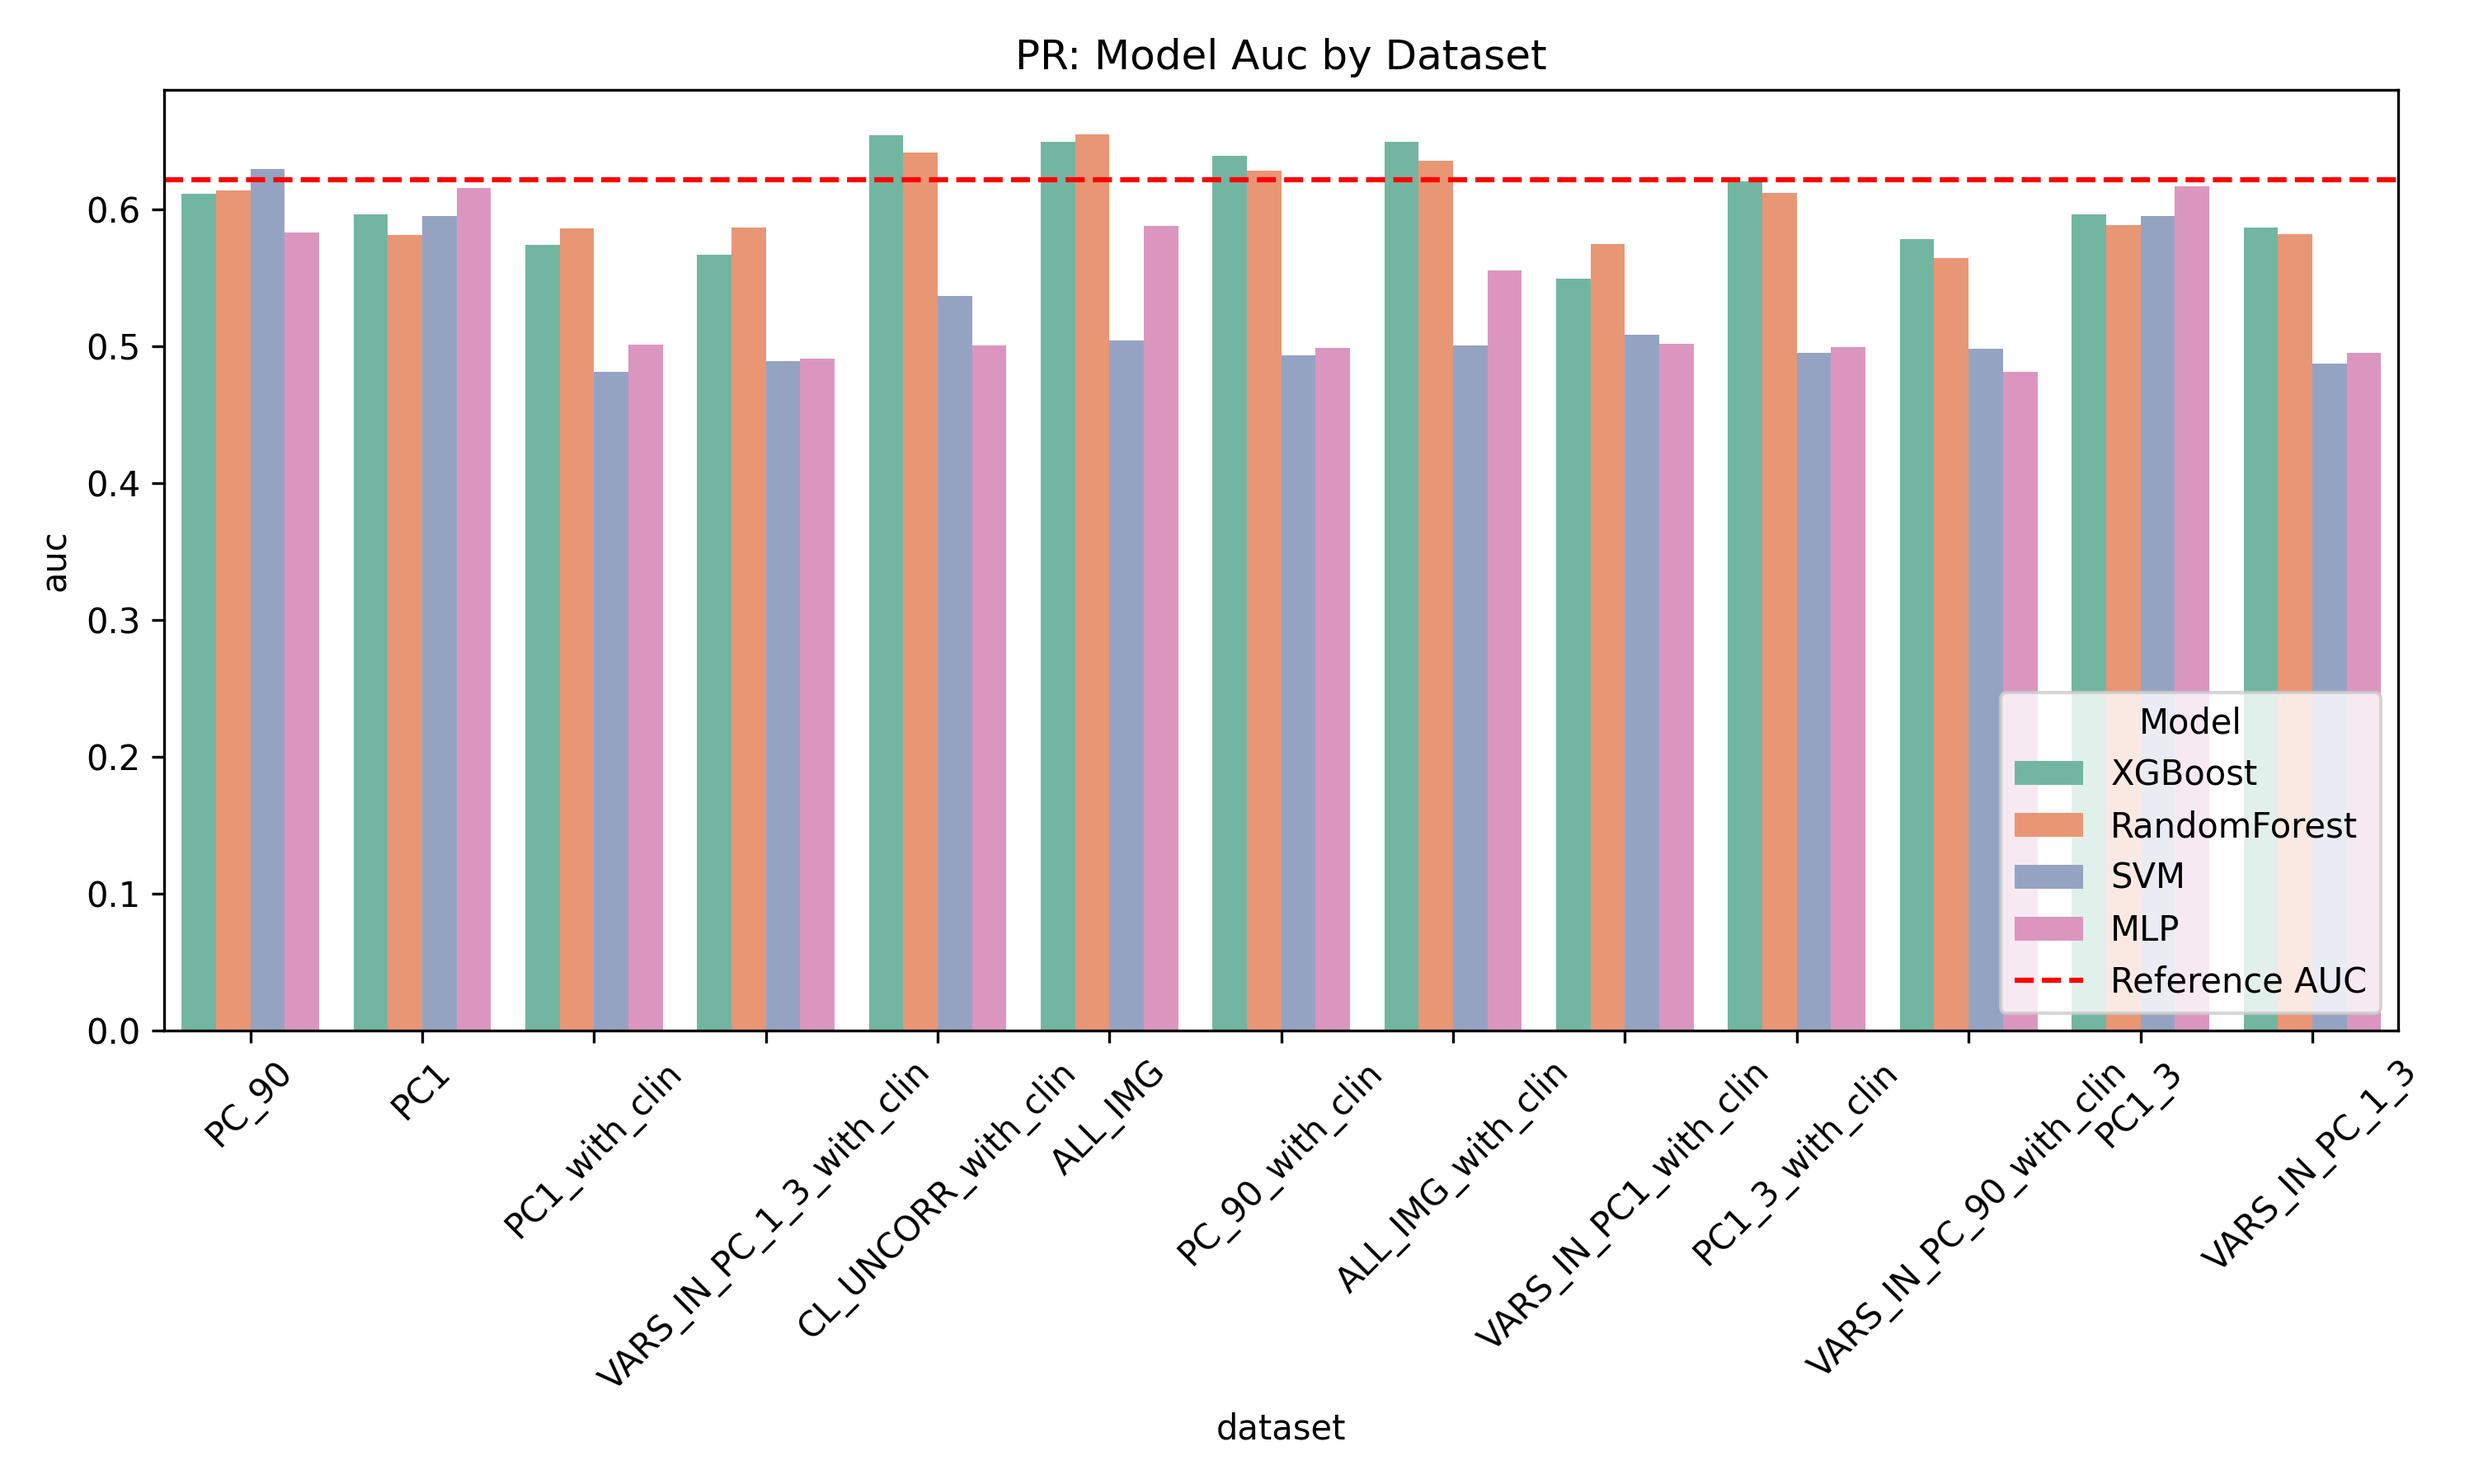
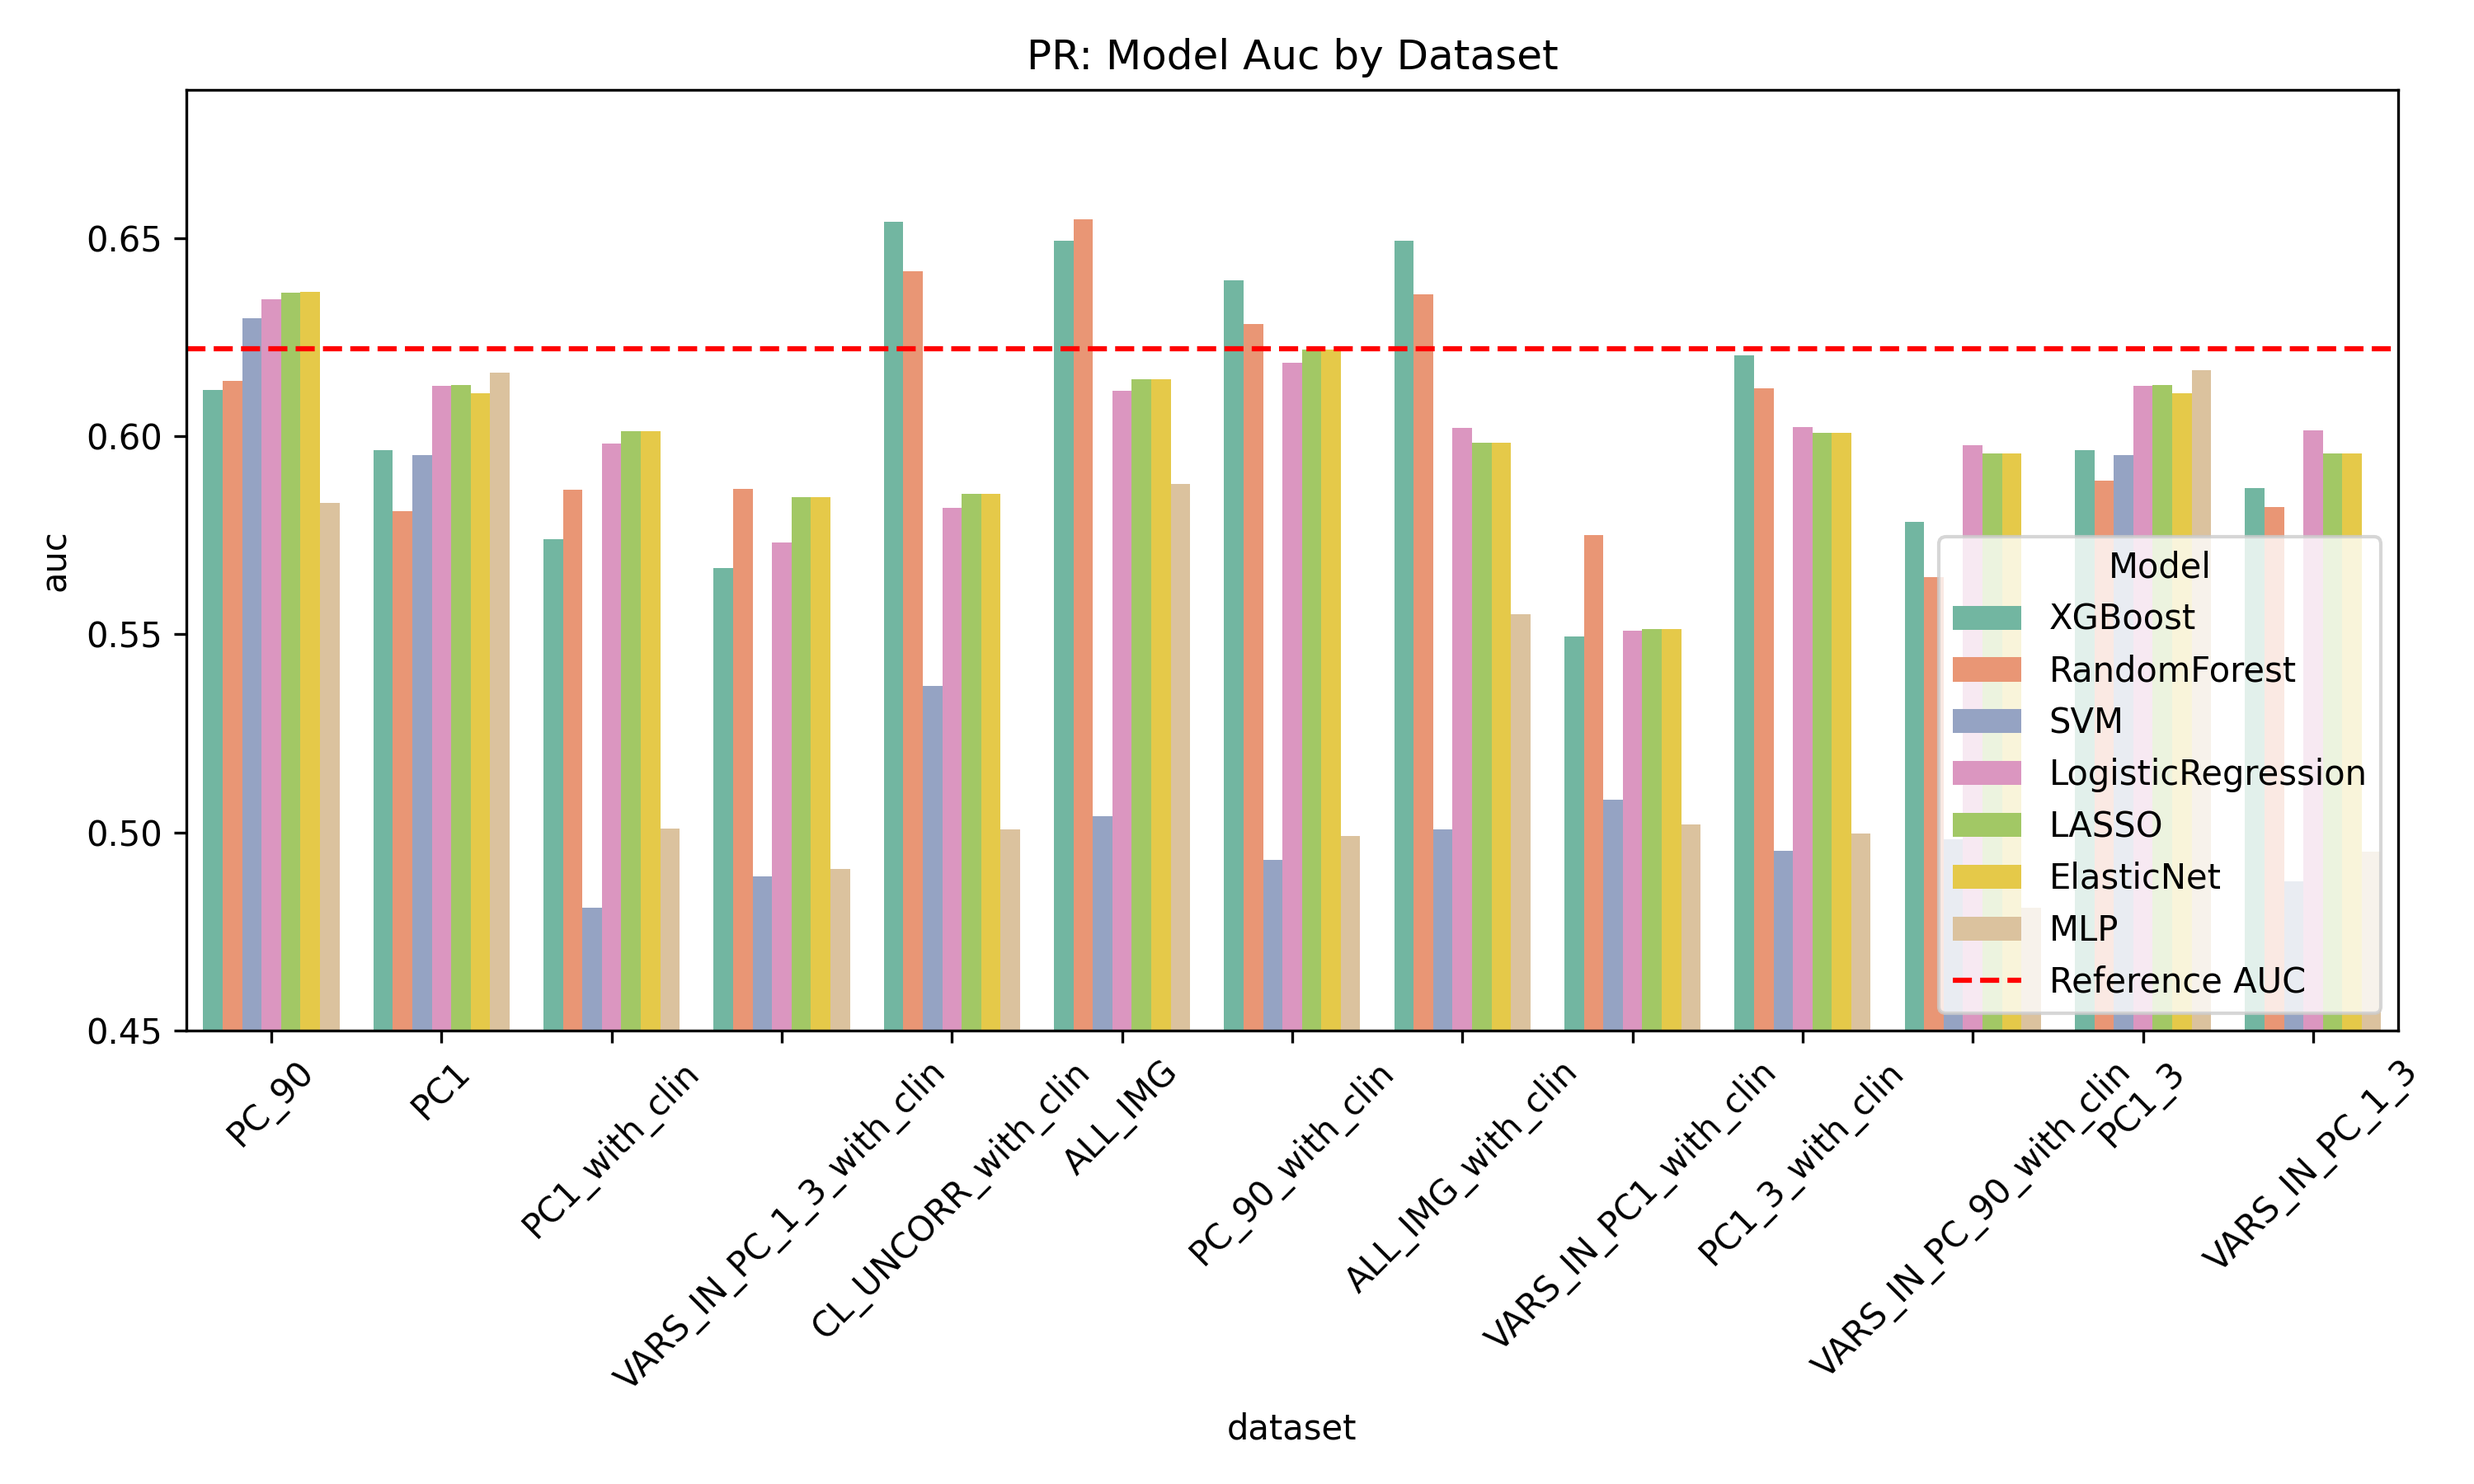
updated the PCA graphs to be in correct order, generalized input to take from .csv for summary statistics

diff --git a/data/final/lucy/final_produce_custom_figures.py b/data/final/lucy/final_produce_custom_figures.py
@@ -1,0 +1,117 @@
+"""
+final_produce_custom_figures.py
+
+This script reads in a CSV file (formatted like summary_auc.csv) containing model
+statistics, reshapes it so that each model is in its own row, and produces figures
+based on user-selected datasets, models, and predictors. It also writes out a filtered
+CSV for reference.
+
+User-adjustable lists:
+    SELECTED_DATASETS: List of datasets to include.
+    SELECTED_MODELS: List of models to include.
+    SELECTED_PREDICTORS: List of predictors (outcomes) to include.
+"""
+
+import os
+import pandas as pd
+import matplotlib.pyplot as plt
+import seaborn as sns
+from pathlib import Path
+
+# ------------------------------------------
+# User adjustable parameters - modify these as needed
+SELECTED_DATASETS = ["ALL_IMG", "ALL_IMG_with_clin", "PC1"]  # Modify as needed.
+SELECTED_MODELS = ["XGBoost", "RandomForest", "MLP", "SVM", "LogisticRegression", "LASSO", "ElasticNet"]
+SELECTED_PREDICTORS = ["ER", "PR", "HER2"]  # Modify as needed.
+# ------------------------------------------
+
+# Reference AUC values (update as needed)
+REF_AUC = {
+    "ER": 0.65,
+    "PR": 0.60,
+    "HER2": 0.55
+}
+
+# File paths
+BASE_DIR = Path.cwd() / "data" / "final" / "lucy"
+CSV_INPUT = BASE_DIR / "summary_auc.csv"         # Input CSV file path (same format as summary_auc.csv)
+FIGURES_DIR = BASE_DIR / "figures" / "custom"      # Folder for custom figures
+CSV_OUT = BASE_DIR / "summary_filtered.csv"        # Output filtered CSV
+
+# Ensure output directories exist
+os.makedirs(FIGURES_DIR, exist_ok=True)
+
+# Read the CSV file
+df = pd.read_csv(CSV_INPUT)
+
+# Reshape DataFrame: convert wide format (one column per model) to long format
+models = ["ElasticNet", "LASSO", "LogisticRegression", "MLP", "RandomForest", "SVM", "XGBoost"]
+df_melt = pd.melt(df, id_vars=["predictor", "dataset"], value_vars=models,
+                  var_name="model", value_name="auc")
+
+# Filter the DataFrame based on user-selected datasets, models, and predictors
+df_filtered = df_melt[
+    df_melt["dataset"].isin(SELECTED_DATASETS) &
+    df_melt["model"].isin(SELECTED_MODELS) &
+    df_melt["predictor"].isin(SELECTED_PREDICTORS)
+].copy()
+
+# Write the filtered CSV summary
+df_filtered.to_csv(CSV_OUT, index=False)
+print(f"Saved filtered summary CSV: {CSV_OUT}")
+
+# Create a combined column for model and predictor (e.g. "XGBoost ER")
+df_filtered['model_predictor'] = df_filtered['model'] + " " + df_filtered['predictor']
+
+# --------------------
+# Plot 1: Boxplot for each model-predictor combination
+plt.figure(figsize=(12, 6))
+sns.boxplot(data=df_filtered, x="model_predictor", y="auc", palette="Set3")
+sns.swarmplot(data=df_filtered, x="model_predictor", y="auc", color=".25", alpha=0.7)
+plt.title("AUC Distribution by Model and Predictor")
+plt.ylabel("AUC")
+plt.xlabel("Model and Predictor")
+plt.xticks(rotation=45, ha="right")
+plt.tight_layout()
+boxplot_path = FIGURES_DIR / "auc_boxplot_by_model_predictor.png"
+plt.savefig(boxplot_path, dpi=300)
+plt.close()
+print(f"Saved figure: {boxplot_path}")
+
+# --------------------
+# Plot 2: Grouped bar chart for AUC by dataset (for each predictor)
+for predictor in df_filtered["predictor"].unique():
+    sub_df = df_filtered[df_filtered["predictor"] == predictor]
+    plt.figure(figsize=(10, 6))
+    ax = sns.barplot(data=sub_df, x="dataset", y="auc", hue="model", palette="Set2")
+    # Set the y-axis lower bound to 0.45
+    plt.ylim(0.45, ax.get_ylim()[1])
+    plt.title(f"{predictor}: AUC by Dataset and Model")
+    plt.ylabel("AUC")
+    plt.xlabel("Dataset")
+    plt.xticks(rotation=45)
+    # Add reference line if available
+    if predictor in REF_AUC:
+        plt.axhline(REF_AUC[predictor], color='red', linestyle='--', label='Reference AUC')
+        plt.legend(title="Model", loc="lower right")
+    plt.tight_layout()
+    barplot_path = FIGURES_DIR / f"{predictor}_auc_barplot.png"
+    plt.savefig(barplot_path, dpi=300)
+    plt.close()
+    print(f"Saved figure: {barplot_path}")
+
+# --------------------
+# Plot 3: Overall predictor boxplot showing AUC distribution by predictor
+plt.figure(figsize=(8, 6))
+sns.boxplot(data=df_filtered, x="predictor", y="auc", palette="Set3")
+sns.swarmplot(data=df_filtered, x="predictor", y="auc", color=".25", alpha=0.7)
+plt.title("Overall AUC Distribution by Predictor")
+plt.ylabel("AUC")
+plt.xlabel("Predictor")
+plt.tight_layout()
+overall_boxplot_path = FIGURES_DIR / "overall_auc_by_predictor.png"
+plt.savefig(overall_boxplot_path, dpi=300)
+plt.close()
+print(f"Saved figure: {overall_boxplot_path}")
+
+print("All figures generated successfully.")

diff --git a/data/final/lucy/create_final_csv.py b/data/final/lucy/create_final_csv.py
@@ -21,8 +21,58 @@ CSV_OUT = path / "data" / "final" / "lucy" / "summary_auc.csv"
 # Expected targets (predictors)
 PREDICTORS = ["ER", "PR", "HER2"]
 # List of datasets you want to include
-DATASETS = ["ALL_IMG", "CL_UNCORR", "PC1", "PC1_3", "PC_90", "VARS_IN_PC1", "VARS_IN_PC_1_3", "VARS_IN_PC_90"]
+DATASETS = ["ALL_IMG",
+            "CL_UNCORR",
+            "PC1",
+            "PC1_3",
+            "PC_90",
+            "VARS_IN_PC1",
+            "VARS_IN_PC_1_3",
+            "VARS_IN_PC_90",
+            "ALL_IMG_with_clin",
+            "CL_UNCORR_with_clin",
+            "PC1_with_clin",
+            "PC1_3_with_clin",
+            "PC_90_with_clin",
+            "VARS_IN_PC1_with_clin",
+            "VARS_IN_PC_1_3_with_clin",
+            "VARS_IN_PC_90_with_clin"]
 REF_AUC = {'ER' : .649, 'PR' : .622, 'HER2' : .5}
+
+def plot_model_predictor_boxplot(df, metric="auc"):
+    if df.empty:
+        print("No metrics found. DataFrame is empty.")
+        return
+    # Create a new column that combines model and predictor for grouped plotting
+    df['model_predictor'] = df['model'] + " " + df['predictor']
+    plt.figure(figsize=(12, 6))
+    sns.boxplot(data=df, x="model_predictor", y=metric, palette="Set3")
+    sns.swarmplot(data=df, x="model_predictor", y=metric, color=".25", alpha=0.7)
+    plt.title(f"Overall {metric.capitalize()} Distribution by Model and Predictor")
+    plt.ylabel(metric.capitalize())
+    plt.xlabel("Model and Predictor")
+    plt.xticks(rotation=45, ha="right")
+    plt.tight_layout()
+    outpath = SAVE_DIR / f"overall_{metric}_by_model_predictor.png"
+    plt.savefig(outpath, dpi=300)
+    plt.close()
+    print(f"Saved: {outpath}")
+
+def plot_overall_predictor_boxplot(df, metric="auc"):
+    if df.empty:
+        print("No metrics found. DataFrame is empty.")
+        return
+    plt.figure(figsize=(8, 6))
+    sns.boxplot(data=df, x="predictor", y=metric, palette="Set3")
+    sns.swarmplot(data=df, x="predictor", y=metric, color=".25", alpha=0.7)
+    plt.title(f"Overall {metric.capitalize()} Distribution by Predictor")
+    plt.ylabel(metric.capitalize())
+    plt.xlabel("Predictor")
+    plt.tight_layout()
+    outpath = SAVE_DIR / f"overall_{metric}_by_predictor.png"
+    plt.savefig(outpath, dpi=300)
+    plt.close()
+    print(f"Saved: {outpath}")
 
 def collect_metrics(base_dir=BASE_DIR):
     records = []
@@ -59,16 +109,17 @@ def plot_grouped_bar(df, metric="accuracy"):
     for predictor in df["predictor"].unique():
         plt.figure(figsize=(10, 6))
         sub = df[df["predictor"] == predictor]
-        sns.barplot(
+        ax = sns.barplot(
             data=sub,
             x="dataset", y=metric, hue="model",
             palette="Set2"
         )
+        # Set the bottom of y axis to 0.45
+        plt.ylim(0.45, ax.get_ylim()[1])
         plt.title(f"{predictor}: Model {metric.capitalize()} by Dataset")
         plt.xticks(rotation=45)
         plt.tight_layout()
         plt.legend(title="Model")
-        # Plot horizontal reference line for AUC, if applicable
         if metric == "auc" and predictor in REF_AUC:
             plt.axhline(REF_AUC[predictor], color='red', linestyle='--', label='Reference AUC')
             plt.legend(title="Model", loc="lower right")
@@ -148,7 +199,9 @@ if __name__ == "__main__":
     if df.empty:
         print("No metrics found. Exiting.")
     else:
-        plot_grouped_bar(df, metric="auc")
-        plot_overall_model_performance(df, metric="auc")
-        plot_dataset_performance_by_feature(df, metric="auc")
+        #plot_grouped_bar(df, metric="auc")
+        #plot_overall_model_performance(df, metric="auc")
+        #plot_dataset_performance_by_feature(df, metric="auc")
+        #plot_overall_predictor_boxplot(df, metric="auc")
+        #plot_model_predictor_boxplot(df, metric="auc")  # NEW plot: each model & predictor combination
         create_summary_csv(df)
